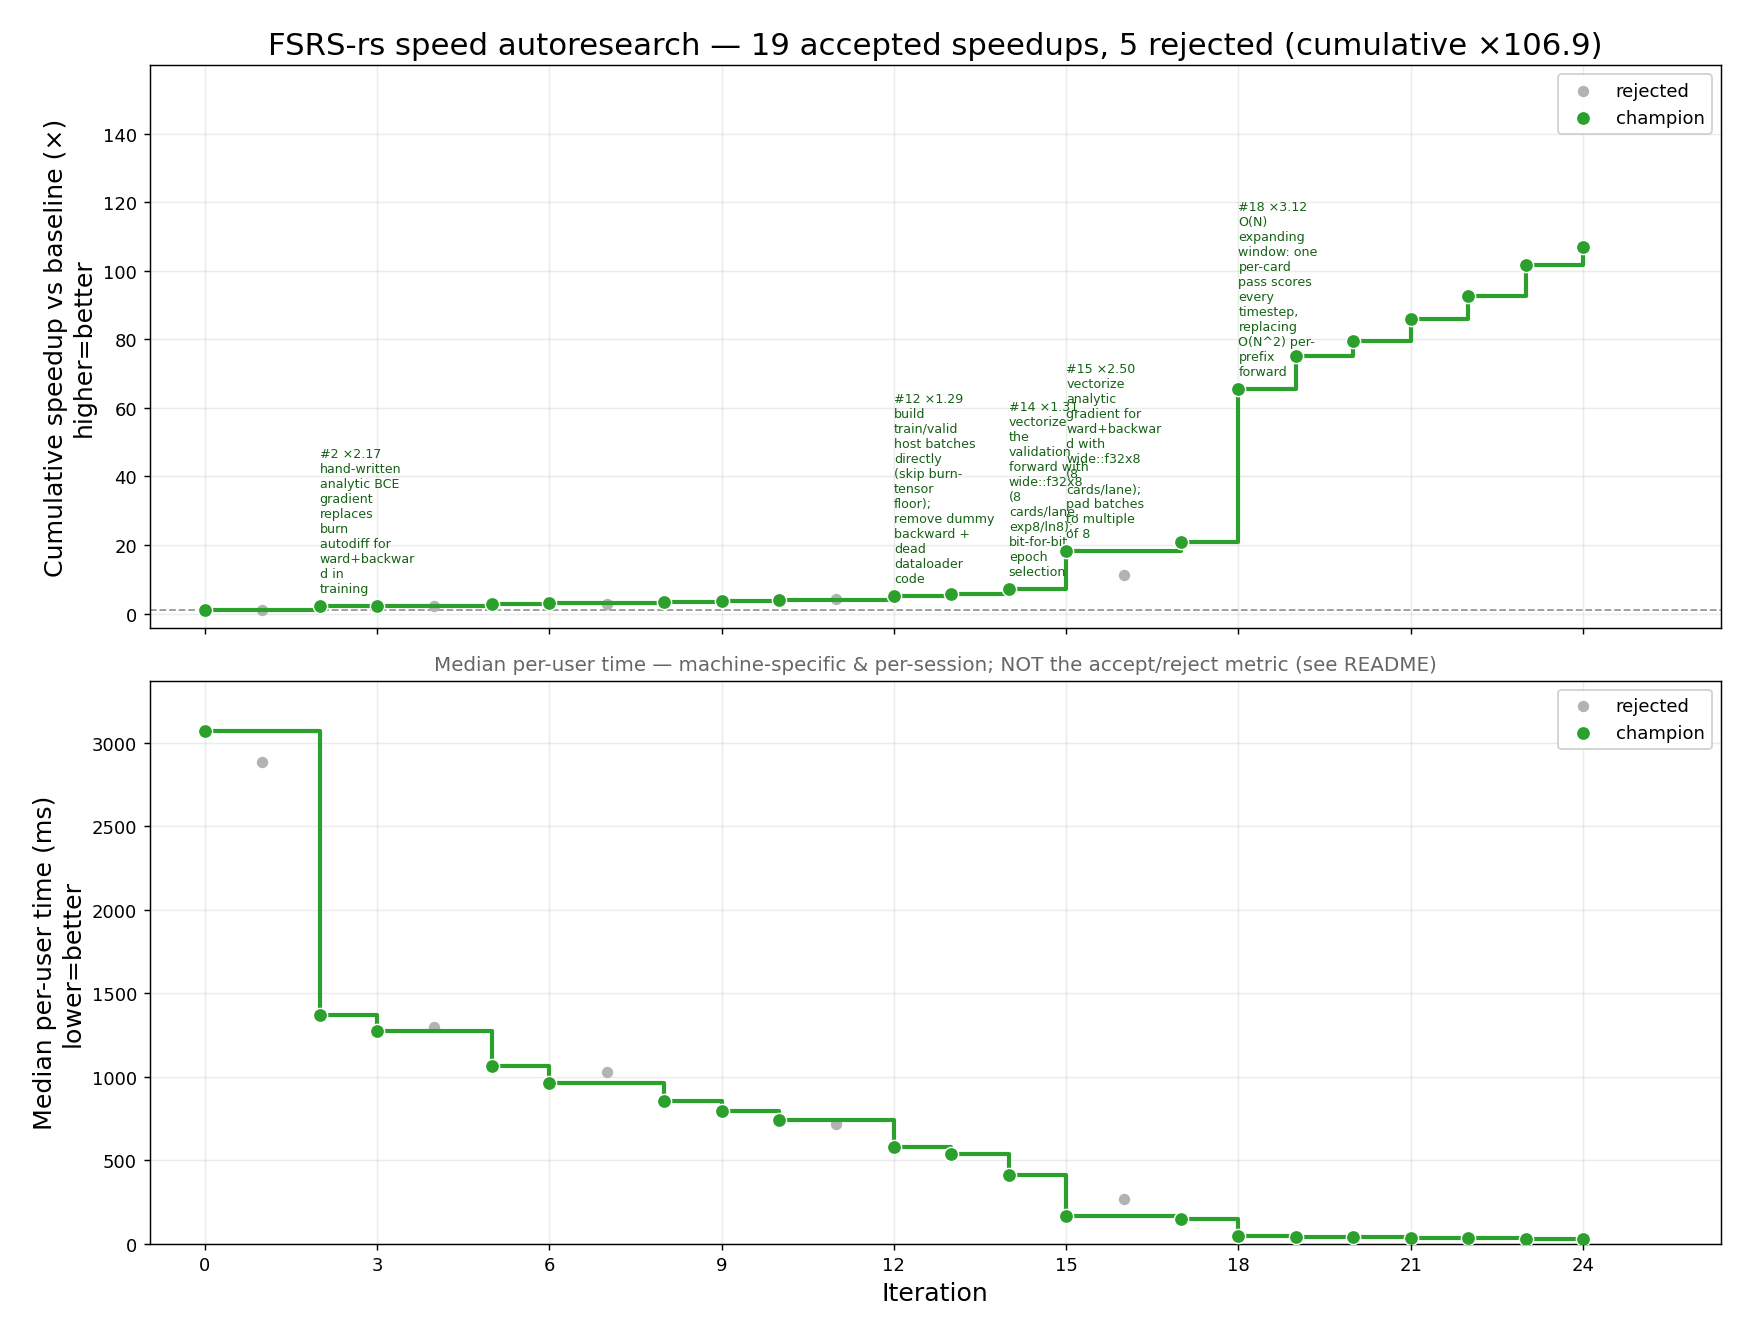
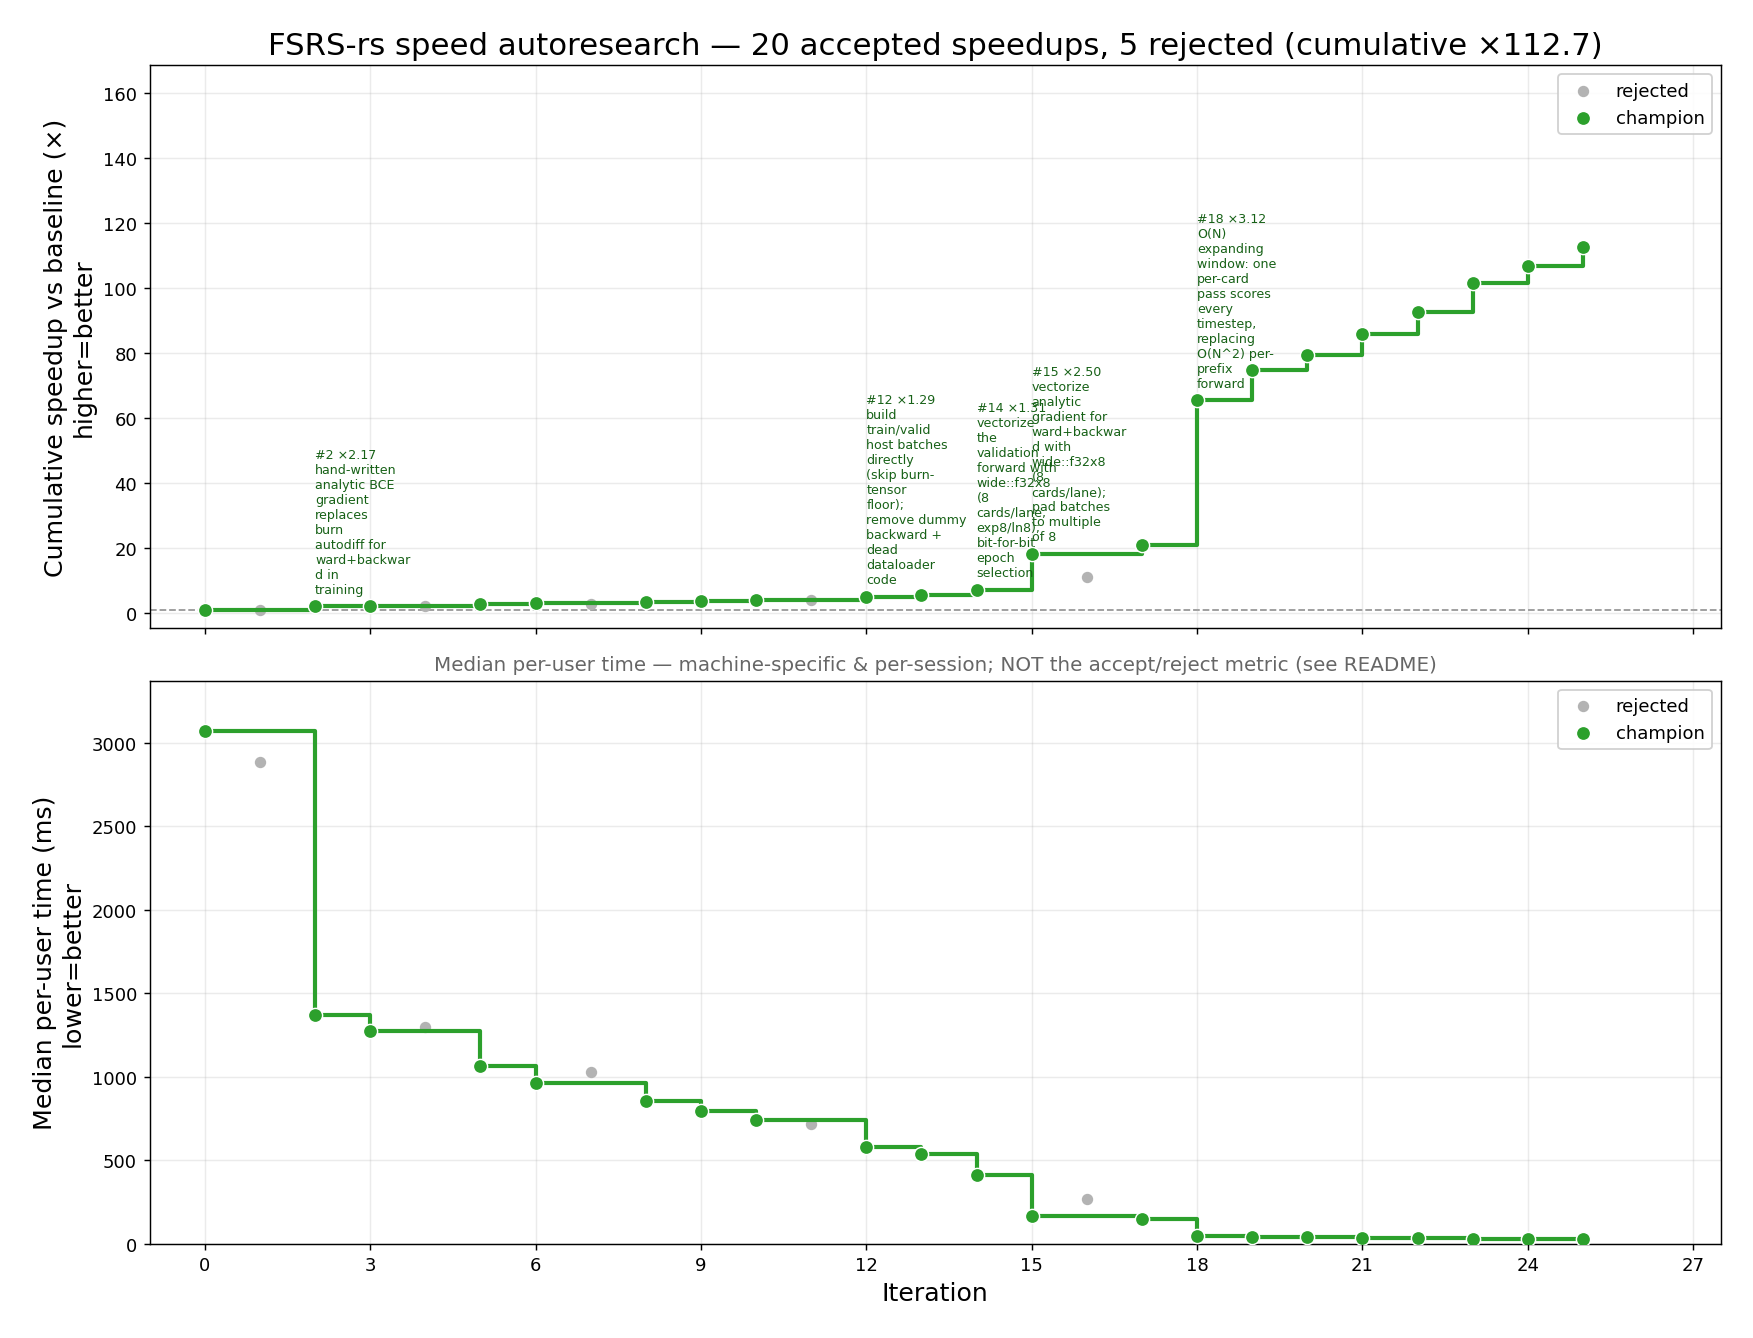
iter25: gradient skip-last + cached sort-key + merged scan - +5.4% median, bit-for-bit
Three windowed-path-only changes, all bit-for-bit (0/50 params, d_AVG 0.000000;
confirmed across two fresh back-to-back pairs, 1.0547 and 1.0541):

1. Gradient skip-last (analytic.rs card_loss_and_grad_simd): the companion to
   iter24's validation skip-last. At the final timestep the output-state adjoint
   is exactly 0, so the stability/next-difficulty backward all multiply 0 (and add
   0.0 to the weight grads = a no-op) -- only the curve backward contributes. So
   compute the curve ONLY there (forward) and peel the last step out of both the
   forward (now 0..seq_len-1) and backward loops. Gradient is identical.
2. group_cards_into_batches: sort_by_key -> sort_by_cached_key (the full_len key
   is computed once per card instead of on every comparison; unique card_id gives
   a total order, so the sorted order -- and thus the batches -- are identical).
3. build_batch_host_windowed: find each card's longest prefix once instead of
   twice (the seq computation + the layout loop), dropping the full_len closure.

All 6 cargo tests green (incl grad_matches_fd, window_grad_equals_sum_of_prefix_grads,
and the O(N^2) batch oracles that cover the untouched benchmark/plain path).
Complexity 7231->7257 (+0.36%, threshold 1.009 << 1.054). Cumulative speed_ratio
x112.7 vs iter-0 (honest re-anchor this session: x104.5).

diff --git a/fsrs-rs/src/analytic.rs b/fsrs-rs/src/analytic.rs
@@ -1196,17 +1196,34 @@ pub(crate) fn card_loss_and_grad_simd(
     labels: &[f32], weights: &[f32], gw: &mut [f64],
 ) -> f64 {
     debug_assert!(batch % 8 == 0, "card_loss_and_grad_simd needs batch padded to a multiple of 8");
+    debug_assert!(seq_len >= 2, "windowed grad needs seq_len >= 2 (min surviving prefix length is 2)");
     let wc = wconsts(w);
     let k = f32x8::splat;
     let one = k(1.0);
     let z = k(0.0);
     let n_groups = batch / 8;
+    // d/dr of -wt*BCE via the unified label identity: d[-ln(1-|label-r|)]/dr = -sign(label-r)/
+    // (1-|label-r|). ONE division (label is 0/1); padding/filtered steps have wt==0 -> 0; the
+    // [MIN_R,MAX_R] clamp zeroes the adjoint outside the range. (3b trade vs lbl/r - (1-lbl)/(1-r).)
+    // Shared by the peeled last step and the reverse loop below.
+    let g_r_loss_at = |r_raw: f32x8, base: usize| -> f32x8 {
+        let wt = load8(weights, base);
+        let lbl = load8(labels, base);
+        let r = clamp8(r_raw, MIN_R, MAX_R);
+        let dd = lbl - r;
+        let sgn = dd.cmp_gt(z).blend(one, z - one);
+        let g_r = (z - wt) * (sgn / (one - dd.fast_max(z - dd)));
+        (r_raw.cmp_gt(k(MIN_R)) & r_raw.cmp_lt(k(MAX_R))).blend(g_r, z)
+    };
     let mut caches: Vec<Step8> = Vec::with_capacity(seq_len);
     for g in 0..n_groups {
         let c0 = g * 8;
         caches.clear();
         let (mut s, mut d, mut sf) = (z, z, z);
-        for t in 0..seq_len {
+        // Forward over every step EXCEPT the last (full step + cache). The last step's stability/
+        // next-difficulty update feeds no t+1, so we compute its curve only (just below) — exactly
+        // like card_loss_simd's validation skip-last.
+        for t in 0..seq_len - 1 {
             let base = t * batch + c0;
             let rating = load8(r_hist, base);
             let dt = if t == 0 { z } else { load8(t_hist, base) };
@@ -1216,27 +1233,31 @@ pub(crate) fn card_loss_and_grad_simd(
             sf = ns.2;
             caches.push(cache);
         }
-        // Reverse pass. The final state (output of the last step) feeds no downstream loss, so its
-        // adjoint starts at 0; each step t>=1 injects its own per-timestep loss adjoint on curve.out.
+        // Last step (t = seq_len-1, always >= 1): curve ONLY, from the clamped incoming state — the
+        // exact curve step8_fwd would compute. (debug_assert seq_len>=2 guards the 0..seq_len-1 above.)
+        let lbase = (seq_len - 1) * batch + c0;
+        let dt_last = load8(t_hist, lbase).fast_max(z);
+        let (ls, lsf, ld) =
+            (clamp8(s, S_MIN, S_MAX), clamp8(sf, S_MIN, S_MAX), clamp8(d, D_MIN, D_MAX));
+        let fc_last = curve8_fwd::<true>(
+            w, dt_last, ls, lsf, ld, wc.ln_w27, wc.ln_w28, ln8::<true>(ls), ln8::<true>(lsf),
+        );
+        // Reverse pass. The final state's adjoint is 0, so at the last step the stab/next_d backward
+        // all multiply 0 -> only curve8_bwd(loss-adjoint) contributes. BIT-FOR-BIT identical to a full
+        // step8_bwd with g_out=0. The clamp gate uses the UNCLAMPED incoming state (= s0/d0/sf0).
         let mut gw_g = [f32x8::splat(0.0); 36];
-        let (mut g_s, mut g_d, mut g_sf) = (z, z, z);
-        for t in (0..seq_len).rev() {
+        let g_rraw_last = g_r_loss_at(fc_last.out, lbase);
+        let (g_ls, g_lsf, g_ld) = curve8_bwd(
+            w, &fc_last, dt_last, ls, lsf, ld, g_rraw_last, &mut gw_g, wc.ln_w27, wc.ln_w28,
+        );
+        let mut g_s = (s.cmp_gt(k(S_MIN)) & s.cmp_lt(k(S_MAX))).blend(g_ls, z);
+        let mut g_d = (d.cmp_gt(k(D_MIN)) & d.cmp_lt(k(D_MAX))).blend(g_ld, z);
+        let mut g_sf = (sf.cmp_gt(k(S_MIN)) & sf.cmp_lt(k(S_MAX))).blend(g_lsf, z);
+        for t in (0..seq_len - 1).rev() {
             let g_r_loss = if t == 0 {
-                z // init step: no prediction (the minimum surviving prefix length is 2).
+                z // init step: no prediction (min surviving prefix length is 2).
             } else {
-                let base = t * batch + c0;
-                let wt = load8(weights, base);
-                let lbl = load8(labels, base);
-                let r_raw = caches[t].curve_out();
-                let r = clamp8(r_raw, MIN_R, MAX_R);
-                // d/dr of -wt*BCE via the unified label identity: d[-ln(1-|label-r|)]/dr =
-                // -sign(label-r)/(1-|label-r|). ONE division instead of two (label is 0/1). Padding/
-                // filtered steps have wt==0 -> g_r==0; the [MIN_R,MAX_R] clamp zeroes the adjoint
-                // outside the range. Precision-trade (3b) vs the old lbl/r - (1-lbl)/(1-r).
-                let dd = lbl - r;
-                let sgn = dd.cmp_gt(z).blend(one, z - one);
-                let g_r = (z - wt) * (sgn / (one - dd.fast_max(z - dd)));
-                (r_raw.cmp_gt(k(MIN_R)) & r_raw.cmp_lt(k(MAX_R))).blend(g_r, z)
+                g_r_loss_at(caches[t].curve_out(), t * batch + c0)
             };
             let (gs0, gd0, gsf0) =
                 step8_bwd(w, &caches[t], (g_s, g_d, g_sf), g_r_loss, &mut gw_g, &wc);

diff --git a/fsrs-rs/src/training.rs b/fsrs-rs/src/training.rs
@@ -1417,22 +1417,24 @@ fn build_batch_host(chunk: &[WeightedFSRSItem]) -> BatchHost {
 /// prefix-items, matching the per-prefix path so the penalty scaling is unchanged.
 fn build_batch_host_windowed(cards: &[Vec<WeightedFSRSItem>]) -> BatchHost {
     let predictions: usize = cards.iter().map(|p| p.len()).sum();
-    let full_len = |prefixes: &[WeightedFSRSItem]| {
-        prefixes.iter().map(|wi| wi.item.reviews.len()).max().unwrap_or(0)
-    };
     let n_cards = cards.len();
     // Pad the card/column count up to a multiple of 8 (all-zero pad columns, weight 0).
     let bsz = n_cards.div_ceil(8) * 8;
+    // Each card's longest surviving prefix carries that card's full review list. Find it ONCE per
+    // card (one scan) and reuse it for both `seq` and the per-card layout below (was two scans).
+    let longest: Vec<&WeightedFSRSItem> = cards
+        .iter()
+        .map(|p| p.iter().max_by_key(|wi| wi.item.reviews.len()).unwrap())
+        .collect();
     // seq = the longest full card length in the batch (= max reviews per surviving prefix).
-    let seq = cards.iter().map(|p| full_len(p)).max().unwrap_or(0);
+    let seq = longest.iter().map(|wi| wi.item.reviews.len()).max().unwrap_or(0);
     let mut th = vec![0.0f32; seq * bsz];
     let mut rh = vec![0.0f32; seq * bsz];
     let mut lbl = vec![0.0f32; seq * bsz];
     let mut wts = vec![0.0f32; seq * bsz];
     for (c, prefixes) in cards.iter().enumerate() {
-        // The longest surviving prefix carries the card's full review list q[0..K'-1]; lay it in.
-        let longest = prefixes.iter().max_by_key(|wi| wi.item.reviews.len()).unwrap();
-        for (t, r) in longest.item.reviews.iter().enumerate() {
+        // Lay in the card's full review list q[0..K'-1] (from its longest surviving prefix).
+        for (t, r) in longest[c].item.reviews.iter().enumerate() {
             th[t * bsz + c] = r.delta_t;
             rh[t * bsz + c] = r.rating as f32;
         }
@@ -1465,8 +1467,10 @@ fn group_cards_into_batches(
         cards.entry(wi.card_id).or_default().push(wi);
     }
     let mut card_list: Vec<Vec<WeightedFSRSItem>> = cards.into_values().collect();
-    // Total order (card_id is unique per card), so independent of HashMap iteration order.
-    card_list.sort_by_key(|prefixes| {
+    // Total order (card_id is unique per card), so independent of HashMap iteration order. Cached
+    // key: full_len scans the card's prefixes, so compute it once per card instead of per comparison
+    // (sort_by_key would). Same key => identical order => bit-for-bit batches.
+    card_list.sort_by_cached_key(|prefixes| {
         let full_len = prefixes
             .iter()
             .map(|wi| wi.item.reviews.len())

diff --git a/result/history.md b/result/history.md
@@ -29,6 +29,7 @@ Accept metric: **median per-user speed_ratio ≥ 1.05** (constraint 12) AND **sp
 | 22 | 36 | 34 | 1.077 | 7187 | 7180 | 0.999 | 0.998 | ✓ | accepted | hand-roll Adam + param clip on host f32, drop per-step burn tensor round-trips |
 | 23 | 33 | 30 | 1.096 | 7180 | 7219 | 1.005 | 1.014 | ✓ | accepted | Windowed-only cruder minimax via const-generic FAST: exp8 deg3->deg2 + ln8 deg2->deg1; benchmark path bit-for-bit |
 | 24 | 30 | 28 | 1.053 | 7219 | 7231 | 1.002 | 1.004 | ✓ | accepted | Fuse 3 exp-pairs/timestep (curve se, stab pr x2) + skip dead last-timestep state-update in validation forward |
+| 25 | 28 | 28 | 1.054 | 7231 | 7257 | 1.004 | 1.009 | ✓ | accepted | Gradient skip-last (curve-only at final timestep) + cached sort-key + merged longest-prefix scan; bit-for-bit |
 
-**Cumulative speed_ratio (product of accepted): ×106.939** — upward-biased (winner's curse); anchor periodically vs iter-0 baseline.
+**Cumulative speed_ratio (product of accepted): ×112.724** — upward-biased (winner's curse); anchor periodically vs iter-0 baseline.
 
